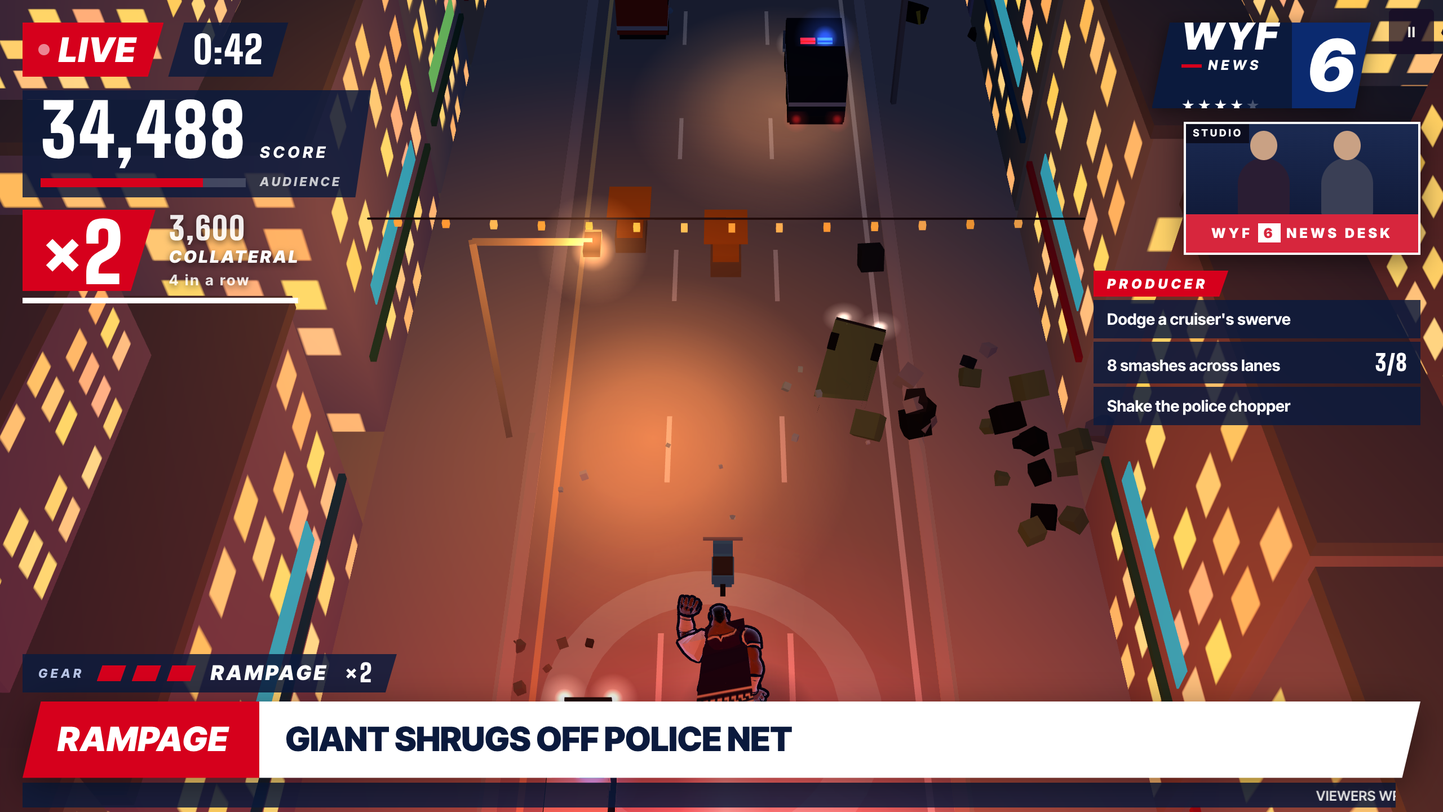
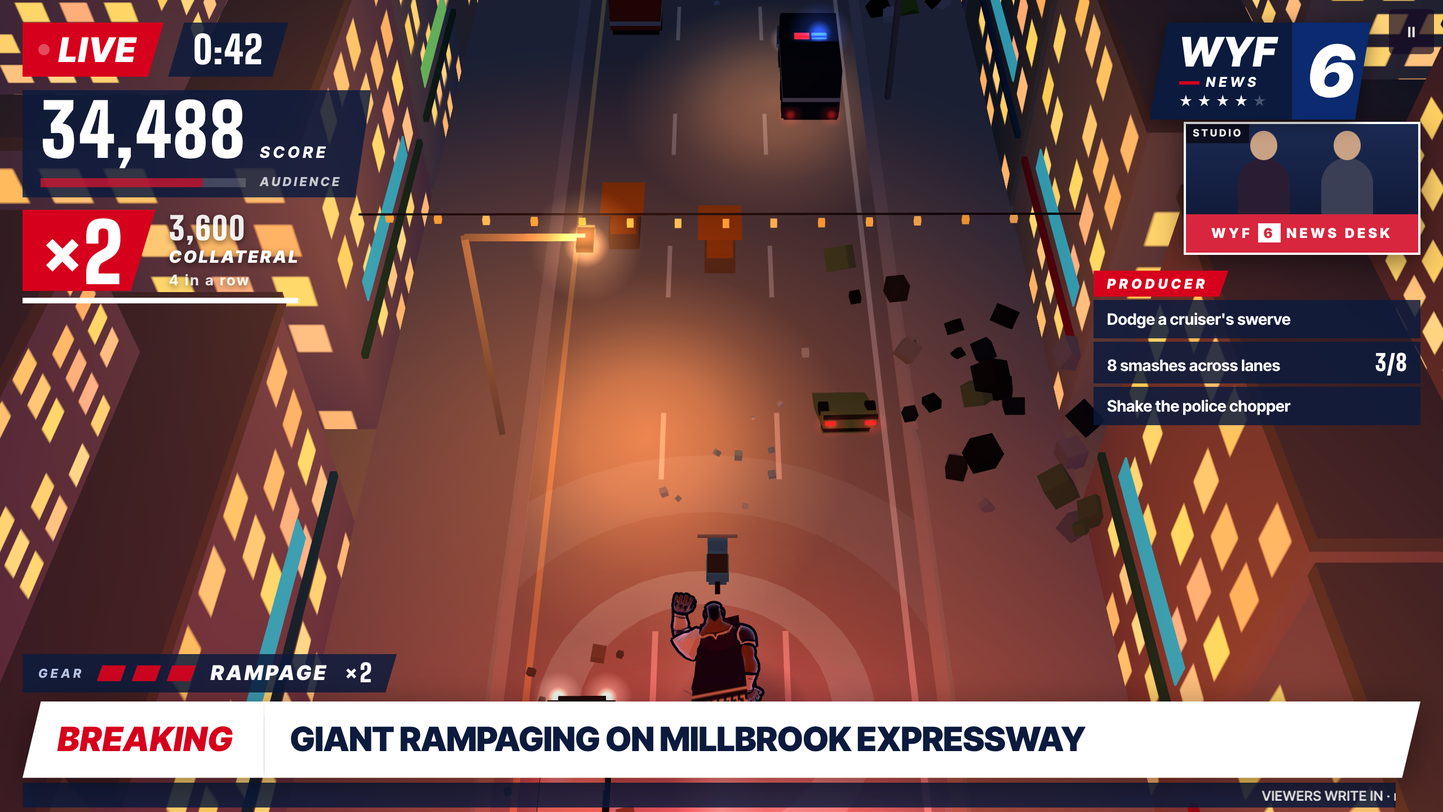
Kiting, sign-off outro, live meters, combo wording, bug crop, lane-add lines
- Cruisers with no room beside him tail him in his lane and steer for where
  he was a beat ago: a late sidestep round something solid crashes them
- Sign-off: drawn along the ramp while the chopper swivels into Head-On,
  then the recap; end timer counts game time
- Audience bar and Rampage pips pulse with the LIVE dot; station bug sizes
  to its content; recap alternates the clip and the still
- Chain -> combo for the player; an opening lane's line waits until it's
  nearly full width

Claude-Session: https://claude.ai/code/session_01U6CEu4PoHkGBg1K7F8gpbb

diff --git a/src/game.ts b/src/game.ts
@@ -187,8 +187,15 @@ let director: Director;
 let cruisers: CruiserView;
 let units: UnitViews;
 /** Phase 2: the broadcast has ended (busted or signed off); the recap follows. */
-let endedAt = -1;
+/** Seconds of (unpaused, time-scaled) play since the broadcast ended; -1 while it's on. */
+let endedFor = -1;
 let recapShown = false;
+/**
+ * Sign-off outro (Mike, 2026-11-16: he ran "through the grass, not on the road"): after the exit the sim runs him
+ * straight on, so he's drawn along the ramp's centreline instead (presentation only), while the chopper swivels into
+ * Head-On; then the recap cuts in.
+ */
+let outro: { seg: ReturnType<Sim['track']['segmentAt']> } | null = null;
 /** Phase 2 Pin meter: a red ring on the ground around the giant, only above 0 (§21). */
 const pinRing = (() => {
   const g = new THREE.RingGeometry(2.0, 2.45, 64, 1);
@@ -286,8 +293,9 @@ function newRun(seed: number, segment = 0, upgrades: UpgradeId[] = []) {
   if (rideMesh) scene.remove(rideMesh);
   rideMesh = null;
   poseAnim = 0;
-  endedAt = -1;
+  endedFor = -1;
   recapShown = false;
+  outro = null;
   document.documentElement.classList.remove('ended');
   hideRecap();
   coverage.reset();
@@ -504,7 +512,7 @@ function openBriefing(goLive: boolean): Promise<void> {
     <ol class="steps">
       <li><b>Run.</b> He never stops. ${k('lanes')} change lanes, ${k('brake')} brake.</li>
       <li><b>Gear up.</b> Hold top speed to shift: Jog, Stride, Rampage. Each gear smashes bigger things. Bulldozers and armored trucks never break: go round.</li>
-      <li><b>Keep them watching.</b> Smashes, close calls and chains fill the audience bar. Empty, they cut to commercial.</li>
+      <li><b>Keep them watching.</b> Smashes, close calls and combos fill the audience bar. Empty, they cut to commercial.</li>
       <li><b>Don't get boxed in.</b> Police close in with an armored truck. ${k('shoulder')} shoulder-checks a car beside you (Stride and up), or brake and drop back. Caught once, you slip; twice, you're busted.</li>
       <li><b>Take the exit.</b> At ${clock} a ramp opens on the right. Be in the far-right lane when you reach it; miss it and coverage ends.</li>
     </ol>
@@ -580,7 +588,7 @@ function showRecap() {
       ? [['Run score', n(run.earned), 'score'], ['Segments cleared', `${run.results.filter((x) => x.cleared).length}<small>/${N}</small>`, '']]
       : [['Score', n(sh.banked), 'score'], ['Peak audience', viewers(sh.peak), '']];
   const tiles: [string, string][] = [
-    ['Longest chain', String(runStats.bestChain)],
+    ['Longest combo', String(runStats.bestChain)],
     ['Flattened', String(sim.stats.smashes)],
     ['Police cars', String(runStats.units + runStats.crashes)],
   ];
@@ -594,7 +602,7 @@ function showRecap() {
   // Tonight's top moment: the replay as a looping clip once its recording is ready (the still until then, or for good
   // where the browser can't record a canvas); the last shot when there was no replay.
   const shot = recapShot
-    ? `<figure class="rc-shot">${recapClip ? `<video src="${recapClip}" autoplay muted loop playsinline></video>` : `<img src="${recapShot}" alt="" />`}<span class="tag">${recapShotFromReplay ? 'REPLAY' : 'LAST SHOT'}</span></figure>`
+    ? `<figure class="rc-shot"><img src="${recapShot}" alt="" /><span class="tag">${recapShotFromReplay ? 'REPLAY' : 'LAST SHOT'}</span></figure>`
     : '';
   const buttons = run?.phase === 'meeting'
     ? `<button class="go" id="meet">Producer's Meeting</button>`
@@ -628,6 +636,7 @@ function showRecap() {
     if (b && !run) b.textContent = `Best ${n(r.best.bestBanked)} · Signed off ${r.best.signOffs} of ${r.best.broadcasts}`;
   });
   recapEl.hidden = false;
+  mountClip();
   // Playtest export: log this broadcast once, then copy everything logged so far.
   if (!lastEntry || lastEntry.seed !== simOpts.seed || lastEntry.segment !== simOpts.segment || lastEntry.seconds !== Math.round(sim.time * 10) / 10) {
     lastEntry = playLog.entry(sim, simOpts.seed, run ? 'run' : 'single', simOpts.segment, simOpts.upgrades);
@@ -674,6 +683,15 @@ function showHeadline(h: Headline) {
   span.className = 'in';
   chyText.replaceChildren(span);
   if (h.breaking) audio.breaking();
+}
+
+/** The broadcast is over (signed off or busted): graphics wind down, the recap timer starts. */
+function endBroadcast(how: 'signOff' | 'busted') {
+  endedFor = 0;
+  coverage.end();
+  audio.ending(how === 'signOff');
+  if (how === 'busted') document.documentElement.classList.add('ended');
+  bot = null;
 }
 
 /** The stunt just before this chain event was a smash-across (for the counter's label). */
@@ -837,13 +855,20 @@ function present(e: SimEvent) {
         showCamTag();
       }
       break;
+    case 'signOff': {
+      const ex = sim.exit;
+      const seg = ex ? sim.track.segments.find((x) => x.index === ex.segment) : undefined;
+      if (seg) outro = { seg };
+      if (!attract && !flags.stepMode) {
+        const H = TUNING.camera.angles.findIndex((a) => a.name === 'Head-On');
+        director.force(H, director.side, true);
+        rig.swoopTo(H, director.side, targetAt(sim.giant.s, sim.giant.d));
+      }
+      endBroadcast(e.type);
+      break;
+    }
     case 'busted':
-    case 'signOff':
-      endedAt = performance.now();
-      coverage.end();
-      audio.ending(e.type === 'signOff');
-      if (e.type === 'busted') document.documentElement.classList.add('ended');
-      bot = null;
+      endBroadcast(e.type);
       break;
     case 'ability':
       if (!e.ok) {
@@ -1087,14 +1112,8 @@ function startClip() {
       rec.stream.getTracks().forEach((k) => k.stop());
       if (clipRec !== rec || !parts.length || performance.now() - t0 < TUNING.replay.clipMin * 1000) return;
       recapClip = URL.createObjectURL(new Blob(parts, { type }));
-      // The recap is usually up already (it opens as the replay ends): swap its still for the clip.
-      const img = recapEl.hidden ? null : recapEl.querySelector('.rc-shot img');
-      if (img) {
-        const v = document.createElement('video');
-        Object.assign(v, { src: recapClip, autoplay: true, muted: true, loop: true, playsInline: true });
-        img.replaceWith(v);
-        void v.play().catch(() => {});
-      }
+      // The recap is usually up already (it opens as the replay ends).
+      if (!recapEl.hidden) mountClip();
     };
     rec.start();
     clipRec = rec;
@@ -1102,6 +1121,28 @@ function startClip() {
     clipRec = null;
   }
 }
+/** The recap card alternates: the clip plays through, then the still holds a moment, then the clip again. */
+function mountClip() {
+  const fig = recapEl.querySelector('.rc-shot');
+  if (!fig || !recapClip || fig.querySelector('video')) return;
+  const v = document.createElement('video');
+  Object.assign(v, { src: recapClip, muted: true, playsInline: true });
+  fig.prepend(v);
+  fig.classList.add('clip');
+  let hold = 0;
+  const play = () => {
+    fig.classList.remove('still');
+    v.currentTime = 0;
+    void v.play().catch(() => {});
+  };
+  v.addEventListener('ended', () => {
+    fig.classList.add('still');
+    clearTimeout(hold);
+    hold = window.setTimeout(() => { if (v.isConnected) play(); }, TUNING.replay.clipStillHold * 1000);
+  });
+  play();
+}
+
 function stopClip() {
   if (clipRec && clipRec.state !== 'inactive') clipRec.stop();
 }
@@ -1504,9 +1545,19 @@ function frame(now: number) {
   const g = sim.giant;
   const alpha = flags.stepMode ? 1 : Math.min(1, acc / SIM_DT);
   const s = prev.s + (g.s - prev.s) * alpha;
-  const d = prev.d + (g.d - prev.d) * alpha;
+  let d = prev.d + (g.d - prev.d) * alpha;
+  let rampSlope = 0;
+  if (outro && !replay) {
+    // On the ramp once it peels away from his lane: its centreline, and its curve in his heading.
+    const rd = sim.track.widthAt(s) + sim.track.exitOffset(outro.seg, s);
+    if (rd > d) {
+      d = rd;
+      rampSlope = sim.track.exitOffset(outro.seg, s + 1) - sim.track.exitOffset(outro.seg, s);
+    }
+  }
   const stepPos = prev.stepPos + (g.stepPos - prev.stepPos) * alpha;
   const t = targetAt(s, d);
+  t.travel += Math.atan(rampSlope); // on the ramp: he (and the chopper) follow its curve
   const lateralVel = (g.d - prev.d) / SIM_DT;
   const heading = t.travel + Math.atan2(lateralVel, Math.max(4, g.speed)) * 0.5;
 
@@ -1585,7 +1636,8 @@ function frame(now: number) {
     pinRing.position.set(t.x, 0.1, t.z);
     pinRing.geometry.setDrawRange(0, Math.ceil((sim.show.pin / 100) * 64) * 6);
   }
-  if (endedAt >= 0 && !recapShown && performance.now() - endedAt > (sim.show.state === 'cleared' ? 2600 : 2200)) {
+  if (endedFor >= 0 && !paused) endedFor += realDt * flags.timescale;
+  if (endedFor >= 0 && !recapShown && endedFor > (sim.show.state === 'cleared' ? TUNING.camera.signOffHold : 2.2)) {
     recapShown = true;
     if (attract) enterAttract(); // behind the menus: just roll another broadcast
     else {
@@ -1982,7 +2034,7 @@ window.__GAME = {
     const t = targetAt(sim.giant.s, sim.giant.d);
     return audio.placeOf(t.x + (r.x / n) * across + Math.cos(t.travel) * along, t.z + (r.z / n) * across + Math.sin(t.travel) * along);
   },
-  recap: () => (recapEl.hidden ? null : { title: recapEl.querySelector('.why')?.textContent, outcome: recapEl.querySelector('.outcome')?.textContent, clip: !!recapEl.querySelector('.rc-shot video') }),
+  recap: () => (recapEl.hidden ? null : { title: recapEl.querySelector('.why')?.textContent, outcome: recapEl.querySelector('.outcome')?.textContent, clip: !!recapEl.querySelector('.rc-shot video') && !(recapEl.querySelector('.rc-shot video') as HTMLVideoElement).paused }),
   /** Recap REPLAY: playing now (sim time, end, rate), and the moment it picked. */
   replay: () => ({ playing: !!replay, t: replay?.sim.time ?? null, end: replay?.end ?? null, rate: replayRate, moment }),
   show: () => ({ ...sim.show, tier: sim.show.tier, exit: sim.exit, live: sim.live, units: sim.pursuit.units.map((u) => ({ id: u.id, unit: u.unit, phase: u.phase, gap: u.s - sim.giant.s, lane: u.lane })) }),

diff --git a/src/style.css b/src/style.css
@@ -617,12 +617,12 @@ html.attract #ratings { display: none; }
 #chain .clock i { background: var(--c-text); }
 
 /* --- Station bug: WYF / NEWS on ink, the 6 on its own block (red in WYF 6 colours, blue on Network) --- */
-#bug { right: calc(64px / var(--hs, 1)); top: calc(20px + env(safe-area-inset-top)); height: 76px; display: flex; flex-direction: row; align-items: stretch; opacity: 1; filter: drop-shadow(0 3px 8px rgba(0, 0, 0, 0.45)); background: none; padding: 0; width: auto; }
-#bug .call { order: 0; display: flex; flex-direction: column; justify-content: center; gap: 3px; background: var(--c-ink); color: var(--c-text); padding: 8px 12px 8px 26px; font: italic 900 36px/1 var(--f-head); letter-spacing: 0.01em; clip-path: polygon(16px 0, 100% 0, 100% 100%, 0 100%); }
+#bug { right: calc(64px / var(--hs, 1)); top: calc(20px + env(safe-area-inset-top)); height: auto; min-height: 76px; display: flex; flex-direction: row; align-items: stretch; opacity: 1; filter: drop-shadow(0 3px 8px rgba(0, 0, 0, 0.45)); background: none; padding: 0; width: auto; }
+#bug .call { order: 0; display: flex; flex-direction: column; justify-content: center; gap: 3px; background: var(--c-ink); color: var(--c-text); padding: 8px 14px 10px 26px; font: italic 900 36px/1 var(--f-head); letter-spacing: 0.01em; clip-path: polygon(16px 0, 100% 0, 100% 100%, 0 100%); }
 #bug .call i { order: 0; display: flex; align-items: center; gap: 6px; color: var(--c-text); font: italic 800 12px/1 var(--f-head); letter-spacing: 0.25em; padding: 0; }
 #bug .call i::before { display: block; content: ''; width: 18px; height: 3px; background: var(--c-red); }
 #bug .ch { order: 1; display: flex; align-items: center; justify-content: center; width: 70px; background: var(--c-six); color: var(--c-text); font: italic 900 64px/1 var(--f-head); padding: 0; clip-path: polygon(0 0, 100% 0, calc(100% - 14px) 100%, 0 100%); }
-#heat { order: 1; background: none; margin: 0; padding: 0; line-height: 1; }
+#heat { order: 1; background: none; margin: 2px 0 0; padding: 0; line-height: 1; display: flex; gap: 2px; }
 #heat em { font-size: 12px; color: rgba(255, 255, 255, 0.25); text-shadow: none; }
 #heat em.on { color: var(--c-accent); text-shadow: none; }
 #desk { top: calc(108px + env(safe-area-inset-top)); right: 20px; }
@@ -741,7 +741,11 @@ html.touch #ticker { right: 128px; }
 #recap .rc-shot img, #recap .rc-shot video { display: block; width: 100%; aspect-ratio: 16 / 9; object-fit: cover; animation: rcshot 6s ease-out both; }
 @keyframes rcshot { from { transform: scale(1.08); } to { transform: none; } }
 #recap .rc-shot video { animation: none; }
-@media (prefers-reduced-motion: reduce) { #recap .rc-shot img, #recap .rc-shot video { animation: none; } }
+#recap .rc-shot.clip img { position: absolute; inset: 0; height: 100%; opacity: 0; transition: opacity 0.35s; animation: none; }
+#recap .rc-shot.clip.still img { opacity: 1; }
+@media (prefers-reduced-motion: reduce) { #recap .rc-shot img, #recap .rc-shot video { animation: none; }
+#recap .rc-shot.clip img { position: absolute; inset: 0; height: 100%; opacity: 0; transition: opacity 0.35s; animation: none; }
+#recap .rc-shot.clip.still img { opacity: 1; } }
 #recap .rc-shot .tag { position: absolute; left: 0; top: 12px; background: var(--c-replay); color: var(--c-text); font: italic 900 12px/1 var(--f-head); letter-spacing: 0.16em; padding: 7px 20px 6px 12px; clip-path: polygon(0 0, 100% 0, calc(100% - 10px) 100%, 0 100%); }
 #recap .rc-shot .rc-story { position: relative; margin: 0; filter: none; }
 #recap .rc-shot .rc-story .t { font-size: 15px; padding: 9px 14px 8px 12px; clip-path: none; }
@@ -810,4 +814,14 @@ html.touch #ticker { right: 128px; }
   #recap .rc-shot .rc-story .t { font-size: 12px; }
   #recap .rc-tiles small { font-size: 10px; letter-spacing: 0.12em; }
   #recap .playdata { position: static; display: block; margin: 8px auto 0; }
+}
+
+/* Live meters (Mike, 2026-11-16): the audience bar and the Rampage gear pips pulse with the LIVE dot's rhythm. */
+@keyframes meterpulse { 50% { opacity: 0.45; } }
+#ratings .bar i { animation: meterpulse 1.2s ease-in-out infinite; }
+#ratings.gain .bar i { animation: gainflash 0.35s ease-out, meterpulse 1.2s ease-in-out 0.35s infinite; }
+#gears[data-tier='2'] i::after { animation: meterpulse 1.2s ease-in-out infinite; }
+html.attract #ratings .bar i { animation: none; }
+@media (prefers-reduced-motion: reduce) {
+  #ratings .bar i, #ratings.gain .bar i, #gears[data-tier='2'] i::after { animation: none; }
 }

diff --git a/src/tuning.ts b/src/tuning.ts
@@ -272,6 +272,8 @@ export const TUNING = {
 
   /** v0.3 procedural highway. */
   track: {
+    /** A lane line is painted only where the lane beyond it is at least this share of a full lane (an opening lane gets its line late, not as a sliver). */
+    laneLineAt: 0.9,
     /** v0.3: built from 40m segments. */
     segmentLength: 40,
     /** v0.3: curves turn at most 8° per segment, eased (no curvature kinks). */
@@ -401,6 +403,8 @@ export const TUNING = {
     shotAfter: 0.2, shotWidth: 960,
     /** The recap's looping clip: recorded off the canvas during the replay at this frame rate and bitrate; under `clipMin` s (skipped early) the still stays. */
     clipFps: 30, clipBitrate: 2_500_000, clipMin: 1.5,
+    /** Between plays of the clip, the still (the moment as it lands) holds this long (s). Mike: "alternate photos and clips". */
+    clipStillHold: 3,
     score: { policeCrash: 10, unitSmash: 7, leapLand: 4, hijackBail: 5, heavyAcross: 6, heavy: 4, nearMiss: 4, ramMiss: 4, pose: 3 },
   },
 
@@ -435,7 +439,7 @@ export const TUNING = {
       { id: 'units', text: 'Flatten {n} police cars', n: 6, reward: 30000 },
       { id: 'crash', text: 'Get a police car to crash', n: 1, reward: 30000 },
       { id: 'roadblock', text: 'Smash through a roadblock', n: 1, reward: 25000 },
-      { id: 'chain', text: 'Chain {n} stunts', n: 12, reward: 35000 },
+      { id: 'chain', text: 'Combo {n} stunts', n: 12, reward: 35000 },
       { id: 'across', text: '{n} smashes across lanes', n: 8, reward: 25000 },
       { id: 'heavy', text: 'Flatten {n} cars or vans', n: 15, reward: 20000 },
       { id: 'bridge', text: 'Smash {n} things on the bridge', n: 4, reward: 25000, zone: 'bridge' },
@@ -494,6 +498,8 @@ export const TUNING = {
      * bounded by `time` (soak-checked).
      */
     swoop: { time: 1.4, apexPitchDeg: 70 },
+    /** Sign-off outro: the chopper swivels into Head-On as he takes the ramp (the swoop's 1.4s), holds, then the recap cuts in (s). */
+    signOffHold: 2.4,
     /** LOCKED (v0.3): direction of travel points up the screen within this many degrees. */
     screenUpMaxDeg: 35,
     /** Yaw is clamped this far inside the law, for lag on curves and wobble. */
@@ -648,7 +654,15 @@ export const TUNING = {
     spawnBehind: 100,
     spawnAheadMin: 110,
     /** Cruiser ram (v0.3: blinker + 0.6s drift, then swerve into your lane). */
-    cruiser: { closeSpeed: 7, tell: 0.6, drift: 0.6, swerve: 0.35, fallBack: 6, sideSpeed: 5 },
+    cruiser: {
+      closeSpeed: 7, tell: 0.6, drift: 0.6, swerve: 0.35, fallBack: 6, sideSpeed: 5,
+      /**
+       * Kiting (Mike, 2026-11-16: "still not able to kite the following police"): with no room beside him a cruiser
+       * tails him `gap` m back in his lane, steering at `sideSpeed` m/s for where he was `react` s ago; it gives up
+       * after `giveUp` s. It doesn't watch the road, so a late sidestep round a Heavy or a bulldozer crashes it.
+       */
+      tail: { gap: 2, react: 0.3, sideSpeed: 4, giveUp: 14 },
+    },
     /** Rolling roadblock (v0.3: brake lights 1.5s, 2–3 cruisers abreast slowing). */
     /** Tells start inside the visible road (the frame shows ≥2s ahead; capped at 28m for the faster Hijack ride), or nobody sees them. */
     rolling: { cruiseFactor: 0.55, tellAhead: 1.9, tellMin: 25, tellMax: 28, tell: 1.5, decel: 6, crawl: 3, actMax: 12 },
@@ -672,7 +686,7 @@ export const TUNING = {
      * a Heavy prop goes flying with it. Only within `visibleBehind` m behind him and ahead of that, so every
      * crash is in the chopper's frame (§1).
      */
-    crash: { react: 6, plowKeep: 0.8, visibleBehind: 3 },
+    crash: { react: 6, plowKeep: 0.8, visibleBehind: 5 },
     /**
      * Police Net (Mike, 2026-11-16: "a real box-in", one goal and two threats). From Heat 3, at most
      * `perSegment[heat - 1]` a segment, `minGap` s apart. An armoured truck (nothing smashes it) takes his

diff --git a/src/sim/pursuit.ts b/src/sim/pursuit.ts
@@ -496,6 +496,19 @@ export class Pursuit {
         // Close: pull into a clear lane next to his and come alongside.
         // It watches him, not the road: only what's just ahead of it counts.
         const clear = (l: number) => l >= 0 && l < lanes && l !== g.lane && !this.propIn(l, u.s - u.hl - 2, Math.max(u.s + u.hl + TUNING.pursuit.crash.react, g.s + 2));
+        const alongside = u.s >= g.s - 4 && Math.abs(u.lane - g.lane) === 1;
+        if (!alongside && ![g.lane - 1, g.lane + 1].some(clear)) {
+          // No room beside him: it tails him in his lane, steering for where he was a beat ago. It watches him,
+          // not the road, so a late sidestep round something solid leaves it to plough straight in (kiting).
+          const T = C.tail;
+          u.speed = g.speed + (u.s < g.s - T.gap - 1 ? C.closeSpeed * 0.5 : 0);
+          u.s = Math.min(u.s + u.speed * dt, g.s - u.hl - T.gap);
+          const want = sim.escort.pathAt(g.s - g.speed * T.react);
+          u.d += clamp(want - u.d, -T.sideSpeed * dt, T.sideSpeed * dt);
+          u.lane = clamp(Math.round(u.d / TUNING.lanes.width - 0.5), 0, lanes - 1);
+          if (u.phaseT > T.giveUp) this.setPhase(u, 'leave');
+          break;
+        }
         if (u.lane !== g.lane && Math.abs(u.d - g.d) < TUNING.lanes.width * 1.5 && !clear(u.lane)) {
           // Alongside him and its lane is blocked just ahead: the only way out is away from him.
           const away = u.lane + Math.sign(u.lane - g.lane);

diff --git a/src/render/highway.ts b/src/render/highway.ts
@@ -410,7 +410,8 @@ export class HighwayView {
     const nextExit = this.sim.track.segments.find((x) => (x.exit || x.fork) && x.index === seg.index + 1);
     if (nextExit) this.signGantry(seg, seg.s0 + 6, group, nextExit.fork?.name);
 
-    // Dashed lane lines (3m dash, 6m gap), only where both lanes exist.
+    // Dashed lane lines (3m dash, 6m gap), only where both lanes exist: an opening lane gets its line once it's
+    // nearly full width (a line hugging the tapering edge read as a mistake; Mike, 2026-11-16).
     const dashGeo = new THREE.PlaneGeometry(1, 1);
     dashGeo.rotateX(-Math.PI / 2);
     const dashes: [number, number, number][] = [];
@@ -419,7 +420,7 @@ export class HighwayView {
       if (((s % 9) + 9) % 9 >= 3) continue;
       const w = this.sim.track.widthAt(s);
       for (let b = 1; b < TUNING.lanes.max; b++) {
-        if (b * W > w - 1.5) break;
+        if (b * W > w - W * TUNING.track.laneLineAt) break;
         dashes.push([s, b * W, this.sim.track.headingAt(s)]);
       }
     }

diff --git a/DECISIONS.md b/DECISIONS.md
@@ -4,6 +4,9 @@ Build-time decisions, working defaults for open questions (GDD §46), and deviat
 
 | Date | Decision | Why | Revisit |
 |---|---|---|---|
+| 2026-11-16 | **Kiting: police that tail him can be led into things** (Mike: "still not able to kite the following police vehicles to get them off/away"). Cause: a cruiser with no clear lane beside him hung back 9m and kept to clear lanes; one far back drove his exact (always clear) path; and police could only crash within 3m behind him, so nothing following could ever hit anything. **Now:** with no room beside him a cruiser **tails him in his lane** 2m off his back (`pursuit.cruiser.tail`), steering at 4 m/s for where he was 0.3s ago. It watches him, not the road, so a late sidestep round a Heavy or a bulldozer leaves it to plough straight in and crash out of the chase. It gives up after 14s. Crashes count up to 5m behind him (`crash.visibleBehind` 3 → 5; at 6–9m they fell below the bottom of the Chase High frame). **Soak (200):** police crashes 73 → 211, lost track 361 → 381; outcomes 110 cleared / 80 audience / 10 missed (was 105 / 83 / 12). Crashes outside the frame: 14 of 211 (6.6%; the soak's limit is 10%; was 1 of 73), all just below the bottom edge in Chase High. | Mike's playtest. | Mike: does kiting read; the off-frame share |
+| 2026-11-16 | **Sign-off outro** (Mike: "signing off doesn't take him on the road, but through the grass… use the swivel into the head-on cam and cut to the next menu"). After the exit the sim runs him straight on (it's over), so presentation draws him along the ramp's centreline and its curve (`track.exitOffset`; the sim is untouched) while the chopper swoops into Head-On (the 1.4s swoop). The recap cuts in after `camera.signOffHold` (2.4s, was 2.6). The end timer now counts game time, not wall time, so pausing during the outro no longer skips it. Evidence: `docs/evidence/signoff/`. | Mike's call. | Mike's playtest |
+| 2026-11-16 | **Smaller HUD and recap calls** (Mike's list). "Chain" → **combo** wherever the player reads it (Longest combo, the ask "Combo 12 stunts", How to Play); code names unchanged. **Station bug:** the WYF/NEWS/stars column was clipped by a fixed 76px plate; it now sizes to its content (min 76px). **Live meters:** the audience bar's fill and the gear pips at Rampage pulse with the LIVE dot's 1.2s rhythm (off under Reduced Motion). **Recap picture:** the clip plays through, the still (the moment as it lands) holds 3s (`replay.clipStillHold`), then the clip again. **Lane adds:** an opening lane gets its dashed line only once it's 90% wide (`track.laneLineAt`); before, a line ran right beside the tapering edge. | Mike's list. | Mike: is the lane-add look fixed, or was it something else |
 | 2026-11-16 | **Caught: the police end a run when he dawdles** (Mike: held Brake ~15s in segment 1, "the run doesn't end when police catch up, and the net situation doesn't happen at all"). Cause: the Police Net was the police's only ending and is scheduled 0/0/1/2/2 per segment from Heat 3, so segment 1 never had one; and cruisers that couldn't find a clear lane beside him parked 9m back forever (probe: 20s of braking at Heat 4–5, no catch). Braking was even listed as a way *out* of the Net. **Now, in every segment:** under 4 m/s (braking; Jog's top is 6), cruisers within 20m pull up 2.5m off his back, and further-back ones close at 14 m/s over his speed instead of 7. Police within 3.5m fill the same meter (`pursuit.caught.fill` 30/s, about 3.3s), labelled **CAUGHT** with "Let go of [Brake] · Run". Same rule as the Net: the first fill in a segment he shakes them (they drop back 2.5s; a gear, a stumble, −15 Ratings, BREAKING "Police Catch Up To Giant; Giant Leaves Anyway"), the second busts (recap: "The police caught up."). Law 1 holds (floor 2 m/s). The meter now also drains once he's free and back above a crawl (it used to hold until 8 m/s, so Jog never drained it). **Measured:** braking after 40s of bot play is caught in 9–12s on 10 of 12 seeds (18–23s when no cruiser was near); the 200-seed soak ends exactly as before (105 cleared / 83 audience / 12 missed): routine short brakes never trigger it. Tests: caught then busted while braking; never at Jog with a cruiser alongside. Evidence: `docs/evidence/caught/caught-first.png`. | Mike's playtest: slowing down has to cost something. | Mike's playtest: catch time, runDown speed |
 | 2026-11-16 | **Headlines every 7s, not 4** (Mike: they "cycle far too quickly"). **Deviation from §21's 4s.** `broadcast.headlineEvery` 7; queued news now waits 9s (abilities 12s) for a slot instead of 6s (10s), so the slower rate drops less. BREAKING still cuts in at once. | Readable at a glance while steering. | Mike's playtest |
 | 2026-11-16 | **Recap trimmed, and the replay plays on it** (Mike: "cut the fluff on the run result screen some more"; "video clips don't play, it shows a still"; "Run Again"; the big headline "can probably go"; "still leave room for a quote/comment… viewer comments in case player doesn't see some during the run"). **Cut:** the last headline in giant type, "THE 11 O'CLOCK RECAP · WYF 6" (run segments keep SEGMENT n OF 5), the TOP STORY caption, the Heat tile, "On air · Rampage" and the anchor's sign-off quote, along with its line bank. Segment 1's "Added to budget" is dropped when it equals the budget. **Run it again → Run Again.** **The clip:** the replay is recorded off the canvas as it plays (MediaRecorder; WebM, or MP4 on Safari; 30 fps, 2.5 Mb/s) and loops muted in the card tagged REPLAY. The still shows until the recording is ready, and stays where the browser can't record or the replay was skipped inside 1.5s. **Viewer comment:** the quote slot now holds a viewer text that didn't air on the ticker this broadcast. Headless Chromium: the clip is recorded and playing on desktop and both phone layouts. Evidence: `docs/evidence/recap/`. | Results screens are read in seconds. | Mike: alternate stills and clips |

diff --git a/CLAUDE.md b/CLAUDE.md
@@ -47,6 +47,7 @@ tools/filmstrip.mjs     slow-motion strip of an impact (smash-heavy, bounce, bou
 tools/shots-onboarding.mjs  live budget, recap and meeting
 tools/shots-recap.mjs   The 11 O'Clock Recap: through the real replay (its picture) and stepped, desktop and phones (ONLY=, SEED=)
 tools/shots-caught.mjs  Caught: Brake held with police behind, the CAUGHT meter, then busted
+tools/shots-signoff.mjs Sign-off outro: on the ramp, the swivel to Head-On, the cut to the replay
 tools/shots-police.mjs  Police evidence: chopper spotlight sweep and lock, a police crash
 tools/shots-gear.mjs    Gear tells: build-up, gear-up moment, Rampage dust
 tools/shots-replay.mjs  Recap REPLAY in real time: lead-in, slow motion at the moment, recap after
